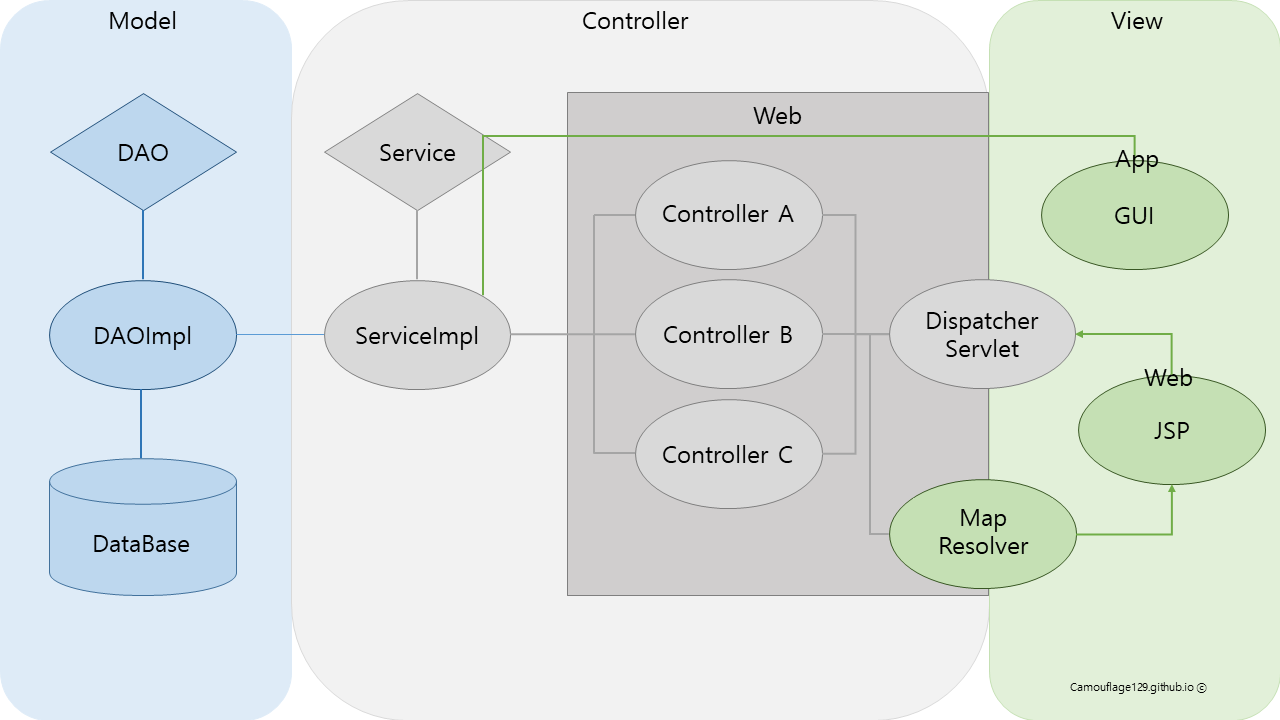
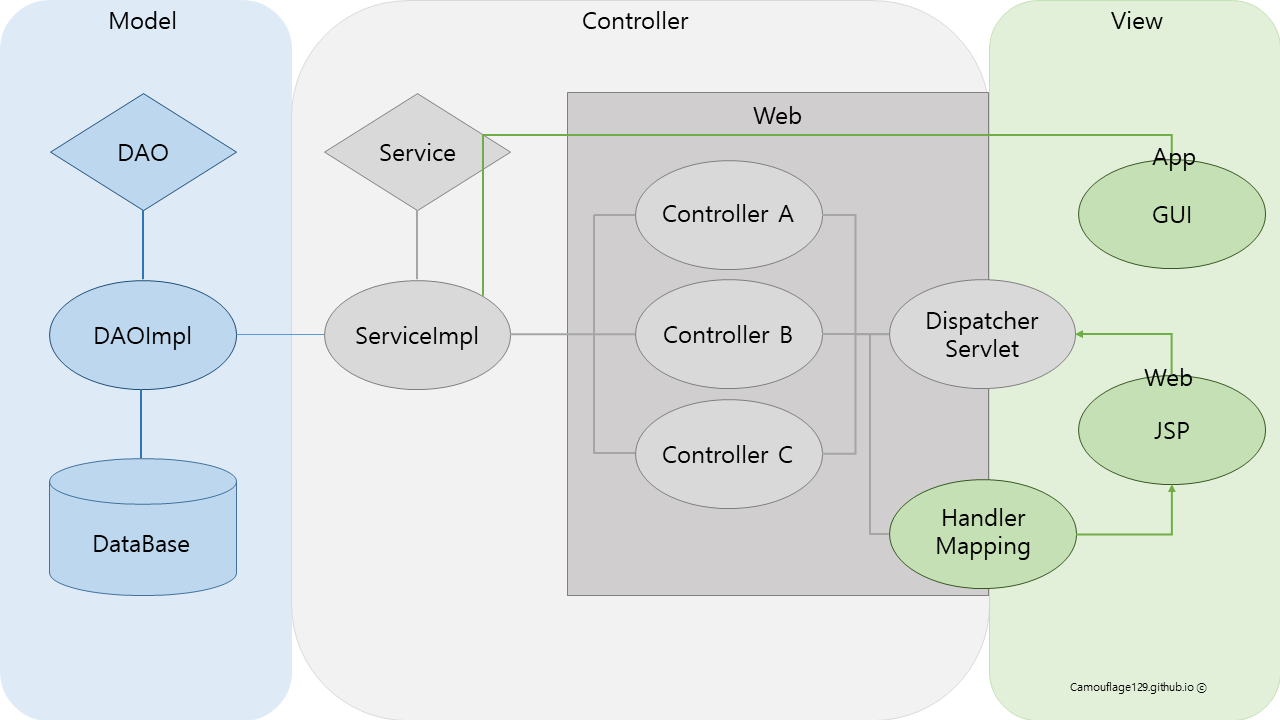
upload mvc

Changed region(s): [[0.8125, 0.1833, 1.0, 0.3972], [0.7188, 0.7028, 0.8125, 0.7944]]

diff --git a/_posts/java/2018-03-25-Java-2-MVC설명-post.md b/_posts/java/2018-03-25-Java-2-MVC설명-post.md
@@ -24,7 +24,7 @@ Web단으로 갔을 때, 위의 그림 처럼 각 기능을 수행할 Controller
 
 사용자의 요청에 따라 그것을 제어해 줄 Dispatcher Servlet 그리고<br>
 
-다시 반환 할 때, 알맞은 JSP로 보내줄 Map Resovler가 존재한다. <br>
+다시 반환 할 때, 알맞은 JSP로 보내줄 Handler Mapping가 존재한다. <br>
 
 <br>
 
